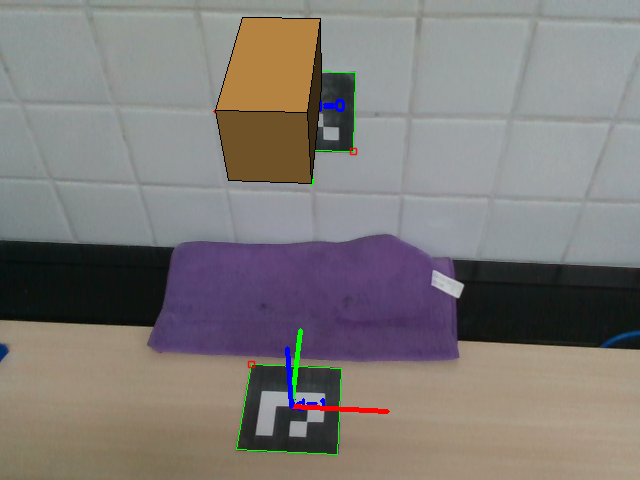
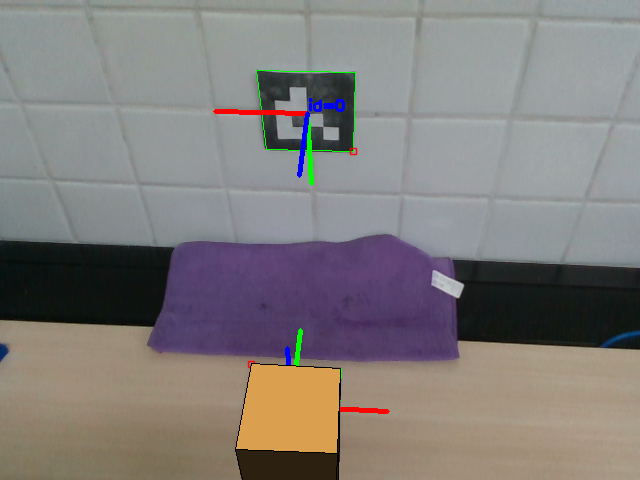
bugfix aruco id

Changed region(s): [[0.3125, 0.0312, 0.5, 0.4062], [0.3438, 0.75, 0.5312, 1.0]]

diff --git a/utils/augmented_reality_marker.py b/utils/augmented_reality_marker.py
@@ -3,7 +3,7 @@ import numpy as np
 
 class ARMarker:
     def __init__(self, camera_params_path, marker_length):
-        # Load camera parameters
+        # Load camera intrinsic parameters
         data = np.load(camera_params_path)
         self.camera_matrix = data["camera_matrix"]
         self.dist_coeffs = data["dist_coeffs"]
@@ -33,84 +33,88 @@ class ARMarker:
         success, rvec, tvec = cv2.solvePnP(
             obj_points, img_points, self.camera_matrix, self.dist_coeffs
         )
-
         return rvec, tvec
 
-    def draw_shaded_cuboid(self, frame, rvec, tvec, size=(0.05, 0.05, 0.1)):
-        """Draw a shaded cuboid with proper top-left-front lighting."""
-        w, h, d = size
+    def draw_shaded_cuboid(self, frame, rvec, tvec, height_scale=1.0):
+        """Draw a shaded cuboid centered and aligned with ArUco marker 1."""
+        w, h = self.marker_length, self.marker_length   # base matches marker size
+        d = self.marker_length * height_scale           # cuboid height relative to marker
+
+        # Base aligned with the ArUco plane (Z = 0)
         points_3d = np.float32([
-            [0, 0, 0], [w, 0, 0], [w, h, 0], [0, h, 0],      # base
-            [0, 0, -d], [w, 0, -d], [w, h, -d], [0, h, -d]   # top
+            [-w/2, -h/2, 0], [ w/2, -h/2, 0], [ w/2,  h/2, 0], [-w/2,  h/2, 0],   # base
+            [-w/2, -h/2, -d], [ w/2, -h/2, -d], [ w/2,  h/2, -d], [-w/2,  h/2, -d] # top
         ])
 
-        # Project to 2D
+        # Project 3D -> 2D
         points_2d, _ = cv2.projectPoints(points_3d, rvec, tvec,
-                                        self.camera_matrix, self.dist_coeffs)
+                                         self.camera_matrix, self.dist_coeffs)
         points_2d = np.int32(points_2d).reshape(-1, 2)
 
-        # Faces of the cuboid
+        # Face definitions
         faces = [
-            [0, 1, 2, 3],  # bottom
-            [4, 5, 6, 7],  # top
-            [0, 1, 5, 4],  # side
-            [1, 2, 6, 5],
-            [2, 3, 7, 6],
-            [3, 0, 4, 7],
+            [0, 1, 2, 3], [4, 5, 6, 7],   # base, top
+            [0, 1, 5, 4], [1, 2, 6, 5],
+            [2, 3, 7, 6], [3, 0, 4, 7],
         ]
 
-        # Rotation matrix from rvec
+        # Rotation matrix
         R, _ = cv2.Rodrigues(rvec)
 
-        # ✅ Light from above, slightly left and a bit in front
-        light_dir = np.array([-0.3, 1.0, 0.3], dtype=np.float32)
+        # Light direction
+        light_dir = np.array([0.0, -1.0, -0.8], dtype=np.float32)
         light_dir /= np.linalg.norm(light_dir)
 
-        # Depth sorting (painter’s algorithm)
+        # Depth sorting
         face_depths = []
         for face in faces:
             pts_cam = (R @ points_3d[face].T).T + tvec.reshape(1, 3)
             avg_depth = np.mean(pts_cam[:, 2])
             face_depths.append((avg_depth, face))
+        face_depths.sort(key=lambda x: -x[0])
 
-        face_depths.sort(key=lambda x: -x[0])  # back to front
-
+        # Draw faces with shading
         for _, face in face_depths:
-            pts_3d = points_3d[face]
-
-            # Compute 3D face normal
-            v1 = pts_3d[1] - pts_3d[0]
-            v2 = pts_3d[2] - pts_3d[0]
+            pts_3d_face = points_3d[face]
+            v1 = pts_3d_face[1] - pts_3d_face[0]
+            v2 = pts_3d_face[2] - pts_3d_face[0]
             normal = np.cross(v1, v2)
             normal /= (np.linalg.norm(normal) + 1e-6)
-
-            # Transform normal into camera space
             normal_cam = R @ normal
 
-            # Lighting intensity
             intensity = np.dot(normal_cam, light_dir)
-            intensity = max(0.2, intensity)  # keep a minimum brightness
+            intensity = max(0.2, intensity)
 
-            # Base metallic bluish color
             base_color = np.array([80, 160, 220])
             color = (base_color * intensity).astype(np.uint8)
             color = tuple(int(c) for c in color)
 
-            pts_2d = points_2d[face]
-            cv2.fillConvexPoly(frame, pts_2d, color)
-            cv2.polylines(frame, [pts_2d], isClosed=True, color=(0, 0, 0), thickness=1)
+            pts_2d_face = points_2d[face]
+            cv2.fillConvexPoly(frame, pts_2d_face, color)
+            cv2.polylines(frame, [pts_2d_face], True, (0, 0, 0), 1)
 
     def process_frame(self, frame):
-        """Process a frame: detect marker, draw axis and shaded cuboid."""
+        """Process a frame: detect both markers, draw cuboid if IDs 0 and 1 are found."""
         gray = cv2.cvtColor(frame, cv2.COLOR_BGR2GRAY)
         corners, ids = self.detect_markers(gray)
 
-        if ids is not None:
+        if ids is not None and set([0, 1]).issubset(set(ids.flatten())):
             cv2.aruco.drawDetectedMarkers(frame, corners, ids)
+
+            # Estimate poses
+            rvecs, tvecs = {}, {}
             for corner, marker_id in zip(corners, ids.flatten()):
                 rvec, tvec = self.estimate_pose(corner)
+                rvecs[marker_id] = rvec
+                tvecs[marker_id] = tvec
                 cv2.drawFrameAxes(frame, self.camera_matrix, self.dist_coeffs, rvec, tvec, 0.05)
-                if marker_id == 0:
-                    self.draw_shaded_cuboid(frame, rvec, tvec)
+
+            # Marker 1 defines orientation and center
+            rvec_base, tvec_base = rvecs[1], tvecs[1]
+
+            # Height = distance between marker 0 and marker 1
+            height_scale = np.linalg.norm(tvecs[0] - tvecs[1]) / self.marker_length
+
+            self.draw_shaded_cuboid(frame, rvec_base, tvec_base, height_scale)
 
         return frame
